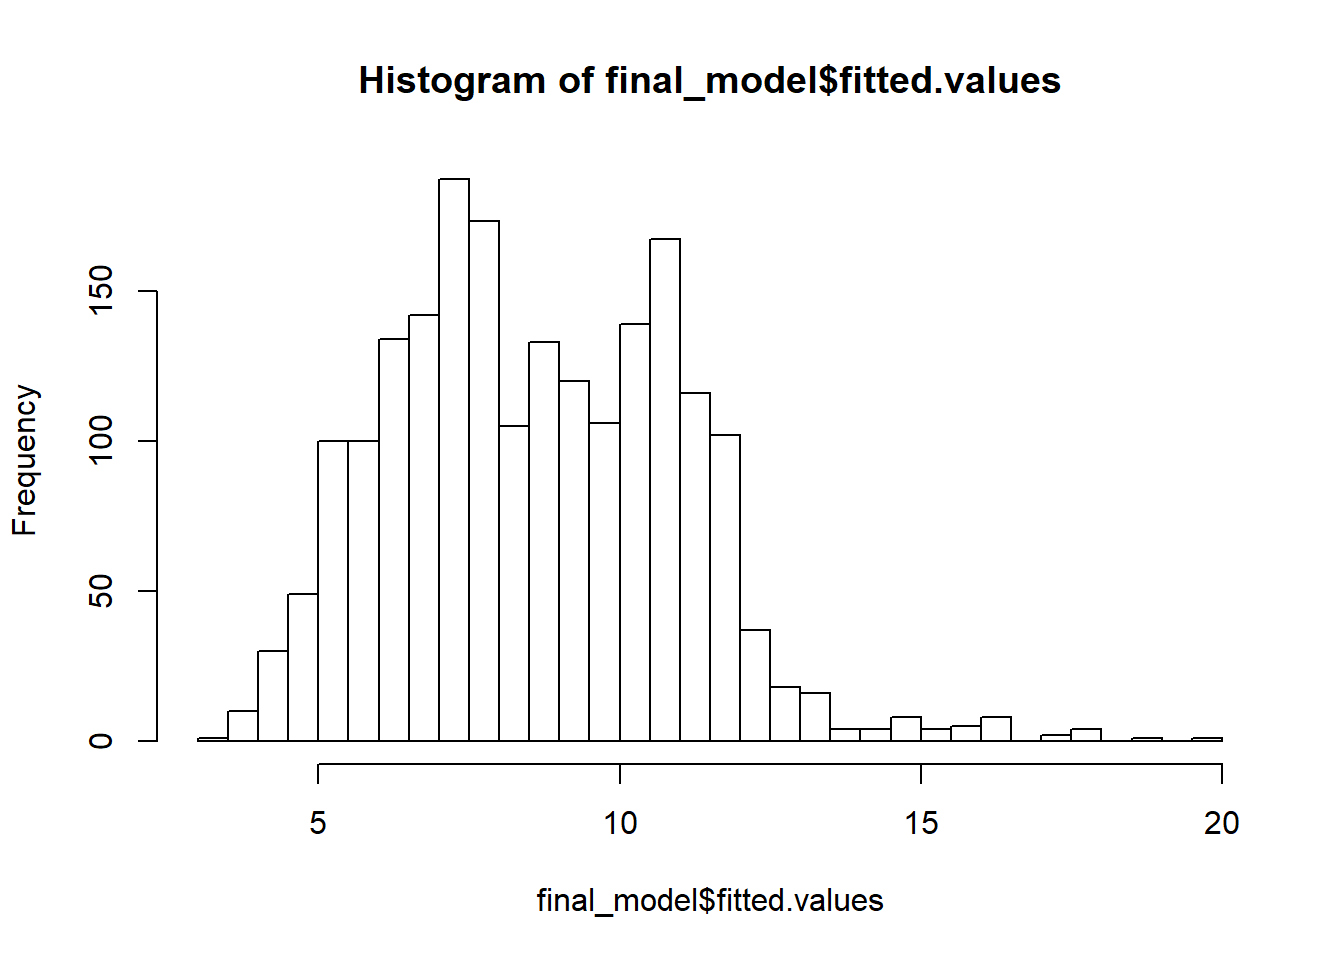
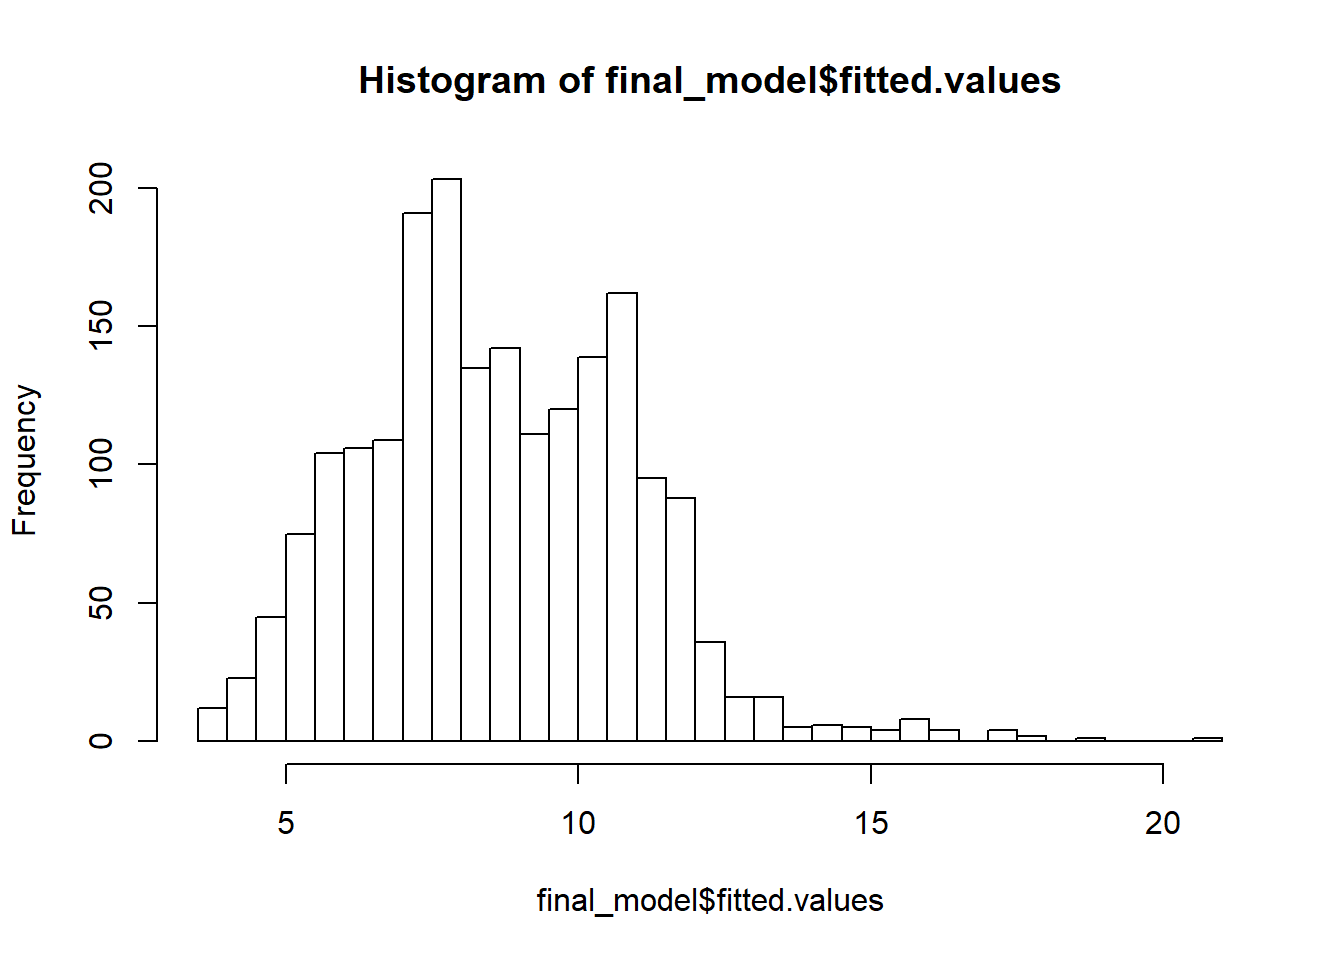
knit

diff --git a/Challenge_1.html b/Challenge_1.html
@@ -2125,25 +2125,25 @@ summary(final_model)</code></pre>
 ## 
 ## Deviance Residuals: 
 ##     Min       1Q   Median       3Q      Max  
-## -11.323   -2.888   -0.882    1.697   49.568  
+## -10.943   -2.871   -0.907    1.766   49.271  
 ## 
 ## Coefficients:
 ##                         Estimate Std. Error t value Pr(&gt;|t|)    
-## (Intercept)            8.592e+00  3.399e-01  25.280  &lt; 2e-16 ***
-## small_machine         -1.678e+00  2.109e-01  -7.958 2.89e-15 ***
-## income_average         7.240e-07  1.371e-07   5.280 1.43e-07 ***
-## log_transport          7.860e-01  1.046e-01   7.517 8.38e-14 ***
-## num_hotels_45          3.009e-01  5.636e-02   5.339 1.04e-07 ***
-## not_trainstation      -3.158e+00  2.189e-01 -14.429  &lt; 2e-16 ***
-## num_vendex_nearby_300 -1.187e-01  2.825e-02  -4.202 2.76e-05 ***
+## (Intercept)            8.594e+00  3.418e-01  25.143  &lt; 2e-16 ***
+## small_machine         -1.814e+00  2.140e-01  -8.478  &lt; 2e-16 ***
+## income_average         8.170e-07  1.300e-07   6.283 4.08e-10 ***
+## log_transport          7.425e-01  1.061e-01   6.998 3.55e-12 ***
+## num_hotels_45          2.622e-01  5.810e-02   4.513 6.77e-06 ***
+## not_trainstation      -2.897e+00  2.194e-01 -13.205  &lt; 2e-16 ***
+## num_vendex_nearby_300 -9.367e-02  2.610e-02  -3.589  0.00034 ***
 ## ---
 ## Signif. codes:  0 &#39;***&#39; 0.001 &#39;**&#39; 0.01 &#39;*&#39; 0.05 &#39;.&#39; 0.1 &#39; &#39; 1
 ## 
-## (Dispersion parameter for gaussian family taken to be 21.33923)
+## (Dispersion parameter for gaussian family taken to be 21.10662)
 ## 
-##     Null deviance: 54679  on 2025  degrees of freedom
-## Residual deviance: 43084  on 2019  degrees of freedom
-## AIC: 11959
+##     Null deviance: 51826  on 1967  degrees of freedom
+## Residual deviance: 41390  on 1961  degrees of freedom
+## AIC: 11596
 ## 
 ## Number of Fisher Scoring iterations: 2</code></pre>
 </div>
@@ -2153,7 +2153,7 @@ summary(final_model)</code></pre>
 <p>After removing statistically non-significant variables from our model and assuming all other factors remaining equal, a machine that is small sells on average 1.608906 fewer units per day than big machines.</p>
 <pre class="r"><code>final_model$coefficients[&quot;small_machine&quot;]</code></pre>
 <pre><code>## small_machine 
-##     -1.678461</code></pre>
+##     -1.814294</code></pre>
 </div>
 <div id="number-of-machines-nearby" class="section level3">
 <h3>Number of machines nearby</h3>
@@ -2161,13 +2161,13 @@ summary(final_model)</code></pre>
 <p>With other machines nearby and assuming all other factors remain the same, machine sales decrease by an average of 0.1055621 per day.</p>
 <pre class="r"><code>final_model$coefficients[&quot;num_vendex_nearby_300&quot;]</code></pre>
 <pre><code>## num_vendex_nearby_300 
-##            -0.1186954</code></pre>
+##           -0.09367007</code></pre>
 </div>
 <div id="top-and-bottom-ratio" class="section level3">
 <h3>Top and bottom ratio</h3>
 <p>Ranking all machines according to the final_model, what are the real daily sales of the top20% machines with respect to your model prediction? And the real daily sales of the bottom20% machines according to your model? What’s the top20%/bottom20% ratio?</p>
 <pre class="r"><code>hist(final_model$fitted.values, breaks = 40)</code></pre>
[2 lines of base64/hex data omitted]
 <pre class="r"><code>predictions &lt;- c(predict(final_model, model_data))
 real &lt;- c(model_data$daily_sales)
 
@@ -2179,42 +2179,42 @@ comparison &lt;- comparison[order(rank(predictions), decreasing = T)]</code></pr
 <p>Top 20% predictions</p>
 <pre class="r"><code>comparison[1:(0.2*length(comparison$predictions)),]</code></pre>
 <pre><code>##      predictions      real     ratio difference
-##   1:    19.86052 15.761364 1.2600765   4.099160
-##   2:    18.88835 20.744444 0.9105257  -1.856094
-##   3:    18.88835 32.977778 0.5727600 -14.089427
-##   4:    18.00600 15.033333 1.1977381   2.972662
-##   5:    17.88908 10.280488 1.7401004   7.608593
+##   1:    20.99750 15.761364 1.3322133   5.236134
+##   2:    18.82454 15.033333 1.2521866   3.791206
+##   3:    17.90885 19.166667 0.9343746  -1.257820
+##   4:    17.64015 20.744444 0.8503552  -3.104299
+##   5:    17.64015 32.977778 0.5349101 -15.337632
 ##  ---                                           
-## 495:    10.80175  5.976190 1.8074648   4.825563
-## 496:    10.79496 11.344444 0.9515640  -0.549480
-## 497:    10.79238  7.977778 1.3528053   2.814602
-## 498:    10.78791 18.730337 0.5759591  -7.942429
-## 499:    10.78791 20.955556 0.5147994 -10.167648</code></pre>
+## 495:    10.69699 21.310345 0.5019623 -10.613354
+## 496:    10.69375 14.411111 0.7420489  -3.717361
+## 497:    10.69265 20.766667 0.5148949 -10.074015
+## 498:    10.69254  6.775281 1.5781690   3.917257
+## 499:    10.68787  6.988764 1.5292933   3.699106</code></pre>
 <p>Bottom 20% predictions</p>
 <pre class="r"><code>comparison[(0.8*length(comparison$predictions)):(length(comparison$predictions))]</code></pre>
-<pre><code>##      predictions      real     ratio difference
-##   1:    6.450982  5.797619 1.1126951  0.6533631
-##   2:    6.444671 12.755556 0.5052443 -6.3108841
-##   3:    6.442933  2.934426 2.1956364  3.5085067
-##   4:    6.442923  5.038961 1.2786212  1.4039615
-##   5:    6.442908  5.777778 1.1151188  0.6651307
+<pre><code>##      predictions     real     ratio  difference
+##   1:    6.558846 8.089888 0.8107462 -1.53104214
+##   2:    6.558846 3.384615 1.9378407  3.17423012
+##   3:    6.557553 3.691358 1.7764609  2.86619500
+##   4:    6.557543 3.794872 1.7280013  2.76267142
+##   5:    6.556323 6.059524 1.0819864  0.49679882
 ##  ---                                           
-## 496:    3.791298  4.263889 0.8891643 -0.4725912
-## 497:    3.791033  3.666667 1.0339180  0.1243660
-## 498:    3.785475  3.557377 1.0641198  0.2280982
-## 499:    3.353767 12.966667 0.2586452 -9.6128999
-## 500:    3.353767  3.776119 0.8881517 -0.4223527</code></pre>
+## 496:    3.923538 4.135802 0.9486763 -0.21226488
+## 497:    3.923004 3.879518 1.0112091  0.04348602
+## 498:    3.923004 4.263889 0.9200531 -0.34088480
+## 499:    3.922705 3.666667 1.0698287  0.25603840
+## 500:    3.916434 3.557377 1.1009330  0.35905679</code></pre>
 <p>the real daily sales of the top 20% machines according to model</p>
 <pre class="r"><code>top20 &lt;- mean(comparison$ratio[1:(0.2*length(comparison))])
 top20</code></pre>
-<pre><code>## [1] 1.260076</code></pre>
+<pre><code>## [1] 1.332213</code></pre>
 <p>the real daily sales of the bottom20% machines according to model</p>
 <pre class="r"><code>bottom20 &lt;- mean(comparison$ratio[(0.8*length(comparison)):(length(comparison))])
 bottom20</code></pre>
-<pre><code>## [1] 0.57276</code></pre>
+<pre><code>## [1] 0.9343746</code></pre>
 <p>the top20%/bottom20% ratio</p>
 <pre class="r"><code>top20/bottom20</code></pre>
-<pre><code>## [1] 2.200008</code></pre>
+<pre><code>## [1] 1.425781</code></pre>
 <p>The data tables above show the expected sales for the top 20% machines and for the bottom 20% machines according to our model predictions. The top20%/bottom20% ratio is 2.296307, which means that on average the top 20% machines are expected to sell more than twice as much per day compared to the bottom 20% machines.</p>
 <div id="choice" class="section level4">
 <h4>Choice</h4>
@@ -2228,10 +2228,10 @@ option2 &lt;- predict(final_model,
 
 option1</code></pre>
 <pre><code>##        1 
-## 10.21659</code></pre>
+## 10.08458</code></pre>
 <pre class="r"><code>option2</code></pre>
 <pre><code>##        1 
-## 5.864236</code></pre>
+## 6.158788</code></pre>
 <p>Given the two options for locations taking into account the factors involved in each, we would choose the first option because we predict higher sales for this location (10.21088 instead of 5.864236 in daily sales variable), assuming that both locations cost us the same to acquire and maintain.</p>
 </div>
 </div>
